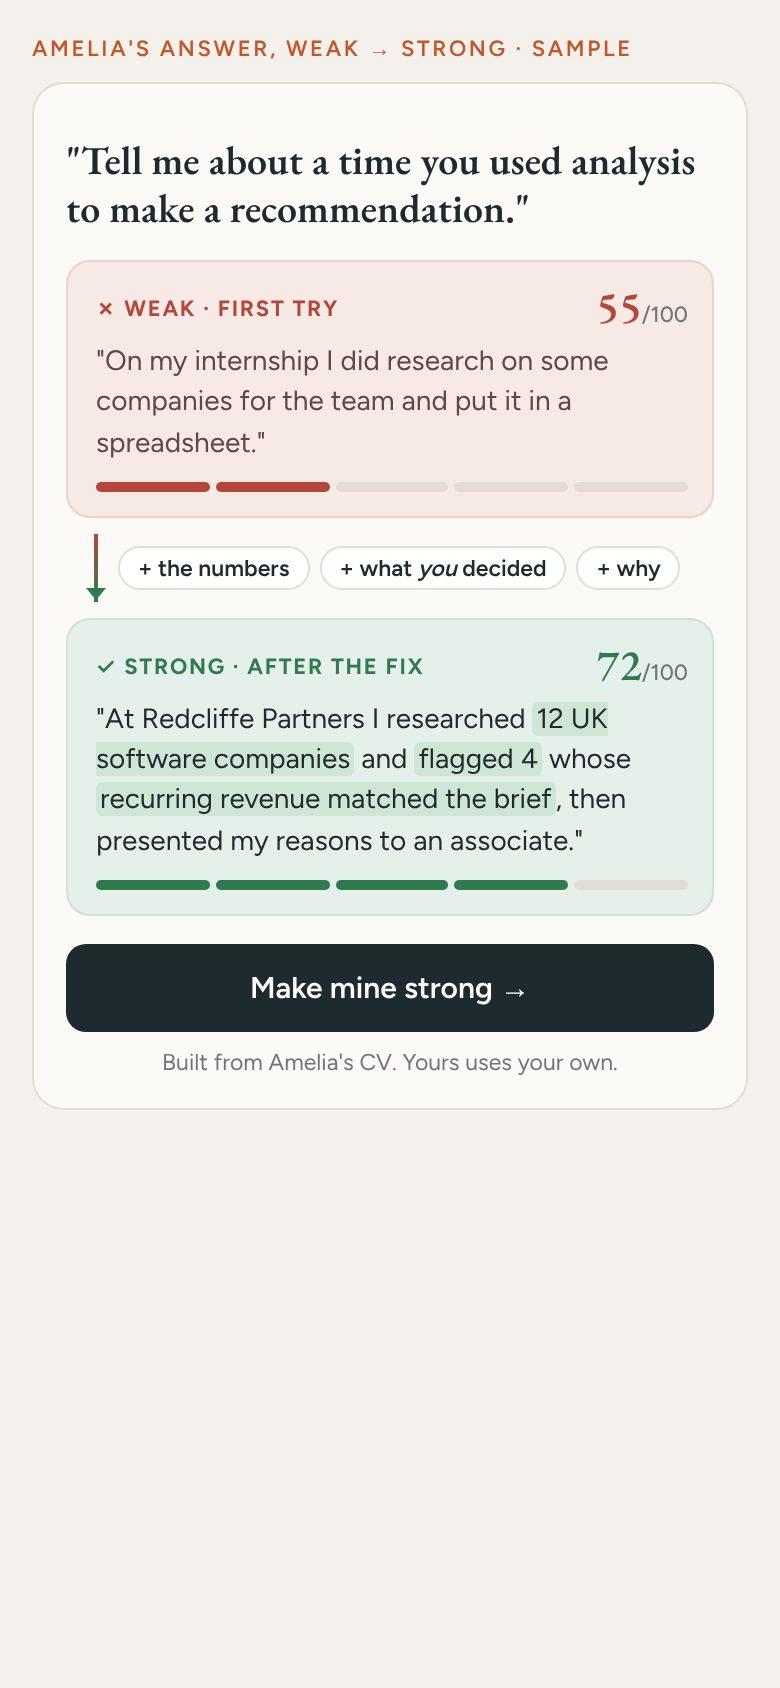
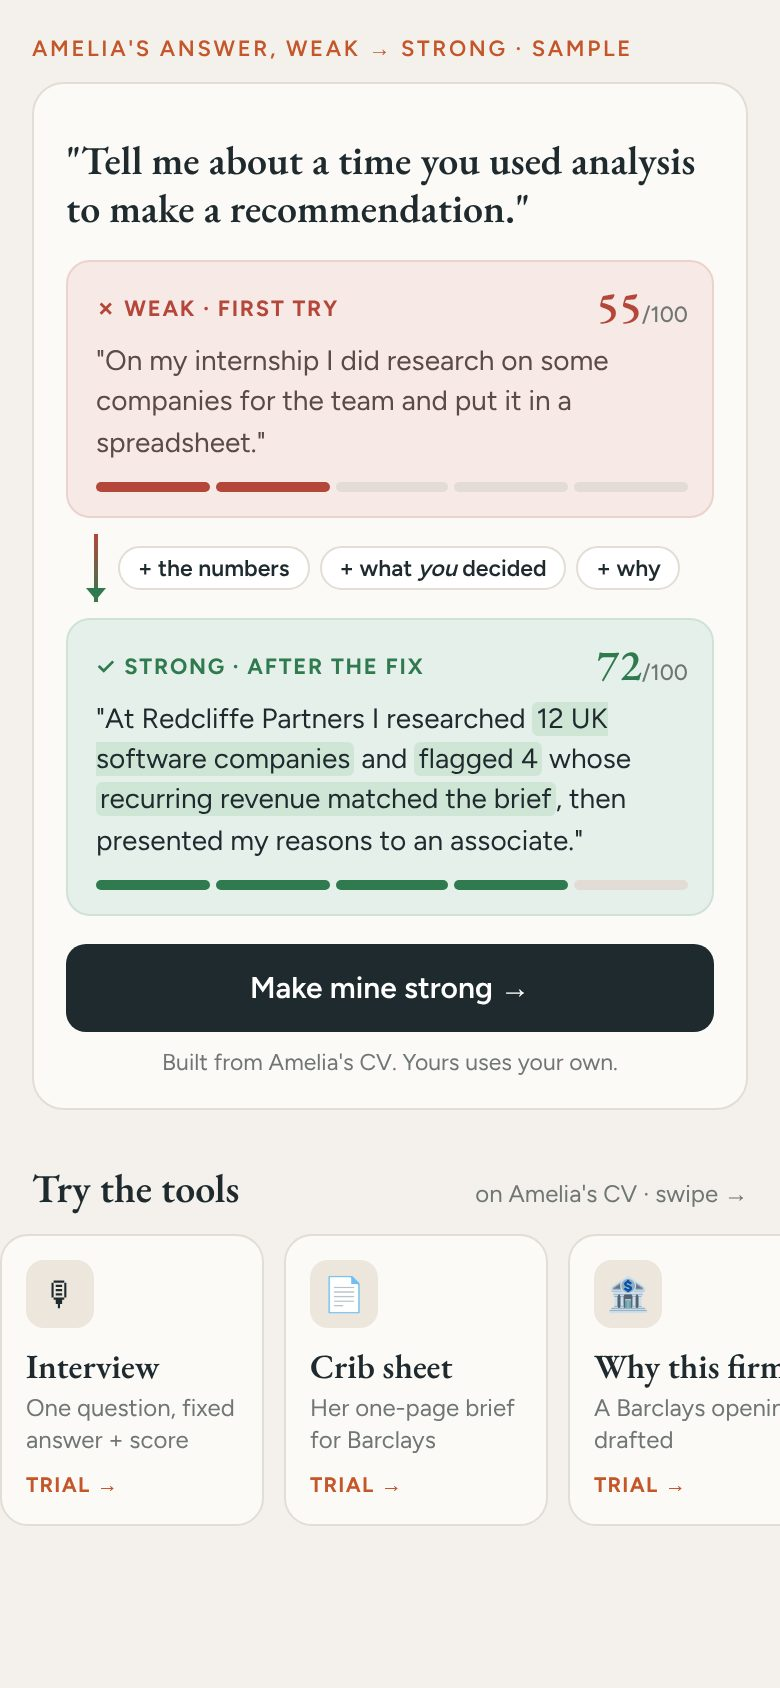
Explore: Try the tools swipe row
Claude-Session: https://claude.ai/code/session_014HX912Q8GYBLs9Jx181D89

diff --git a/design/weak-strong-card-mock.html b/design/weak-strong-card-mock.html
@@ -29,6 +29,15 @@ body{background:var(--paper);font-family:Figtree,sans-serif;color:var(--ink);pad
 mark{background:#cfe6d7;color:inherit;border-radius:3px;padding:0 2px}
 .btn{display:block;text-align:center;background:var(--ink);color:#fff;font-weight:600;font-size:15px;border-radius:10px;padding:13px;margin-top:14px;text-decoration:none}
 .note{font-size:11.5px;color:var(--muted);text-align:center;margin-top:8px}
+.row-h{display:flex;align-items:baseline;justify-content:space-between;margin:26px 0 10px}
+.row-h b{font-family:'EB Garamond',serif;font-size:20px;font-weight:600}
+.row-h span{font-size:12px;color:var(--muted)}
+.swipe{display:flex;gap:10px;overflow-x:auto;scroll-snap-type:x mandatory;margin:0 -16px;padding:0 16px 6px}
+.tile{flex:0 0 132px;scroll-snap-align:start;background:var(--card);border:1px solid var(--line);border-radius:14px;padding:12px}
+.ic{width:34px;height:34px;border-radius:9px;background:#ece6dd;display:flex;align-items:center;justify-content:center;font-size:17px}
+.tile h4{font-family:'EB Garamond',serif;font-size:17px;font-weight:600;margin:10px 0 3px;line-height:1.1}
+.tile p{font-size:12px;color:var(--muted);line-height:1.35;min-height:32px}
+.tr{display:inline-block;font-size:10.5px;font-weight:700;letter-spacing:.06em;color:var(--accent);margin-top:8px}
 </style></head><body>
 <div class="k">Amelia's answer, weak → strong · Sample</div>
 <div class="card">
@@ -53,4 +62,4 @@ mark{background:#cfe6d7;color:inherit;border-radius:3px;padding:0 2px}
   <a class="btn" href="#">Make mine strong →</a>
   <div class="note">Built from Amelia's CV. Yours uses your own.</div>
 </div>
-</body></html>
+<div class="row-h"><b>Try the tools</b><span>on Amelia's CV · swipe →</span></div><div class="swipe"><div class="tile"><div class="ic">🎙</div><h4>Interview</h4><p>One question, fixed answer + score</p><span class="tr">TRIAL →</span></div><div class="tile"><div class="ic">📄</div><h4>Crib sheet</h4><p>Her one-page brief for Barclays</p><span class="tr">TRIAL →</span></div><div class="tile"><div class="ic">🏦</div><h4>Why this firm</h4><p>A Barclays opening, drafted</p><span class="tr">TRIAL →</span></div><div class="tile"><div class="ic">✏</div><h4>CV line fix</h4><p>One weak line, rewritten</p><span class="tr">TRIAL →</span></div><div class="tile"><div class="ic">🧮</div><h4>Tests</h4><p>5 questions, your result</p><span class="tr">TRIAL →</span></div><div class="tile"><div class="ic">👥</div><h4>Group exercise</h4><p>A 3-minute round</p><span class="tr">TRIAL →</span></div></div></body></html>

diff --git a/CODEX-ALL-24NOV.md b/CODEX-ALL-24NOV.md
@@ -194,7 +194,14 @@
     - Button [Make mine strong →] opens the interview trial on the same question. Small note: "Built from Amelia's CV. Yours uses your own."
     - **Real output only:** run Amelia's weak answer and the fixed answer through the actual scorer and rewrite, and store both lines, both scores and the change chips. Never hard-code 55/72 or the wording. Strong-line facts must be from her CV. Re-run if the scorer changes.
     - Meters animate weak → strong once when the card scrolls into view.
-    - Explore order: hero → this card → Closing soon → AMA. Question of the day is removed from explore and returns after the assessment.
+    - **"Try the tools" swipe row directly under it** (mock in the same file): heading "Try the tools", hint "on Amelia's CV · swipe →".
+      - one horizontal row of 6 compact tiles, about 130px wide: Interview · Crib sheet · Why this firm · CV line fix · Tests · Group exercise
+      - each tile: icon + name + one line + "TRIAL →"
+      - scroll-snap, the 3rd tile partly visible so it's obviously swipeable, 16px inset on the first tile (not touching the screen edge)
+      - each tile opens that tool's trial
+      - one row only (about 150px tall), never a vertical stack
+      - laptop: the same 6 tiles as a 3×2 grid
+    - Explore order: hero → weak → strong card → Try the tools (swipe) → Closing soon → AMA. Question of the day is removed from explore and returns after the assessment.
 
 ## D. Member experience
 
